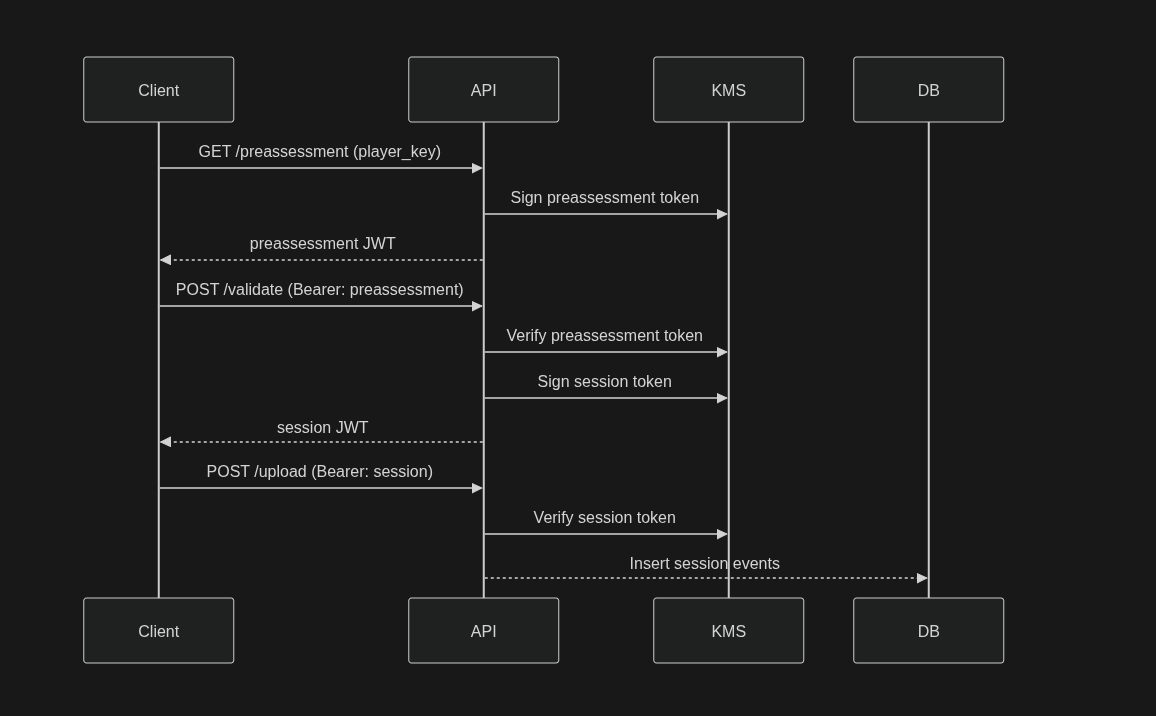
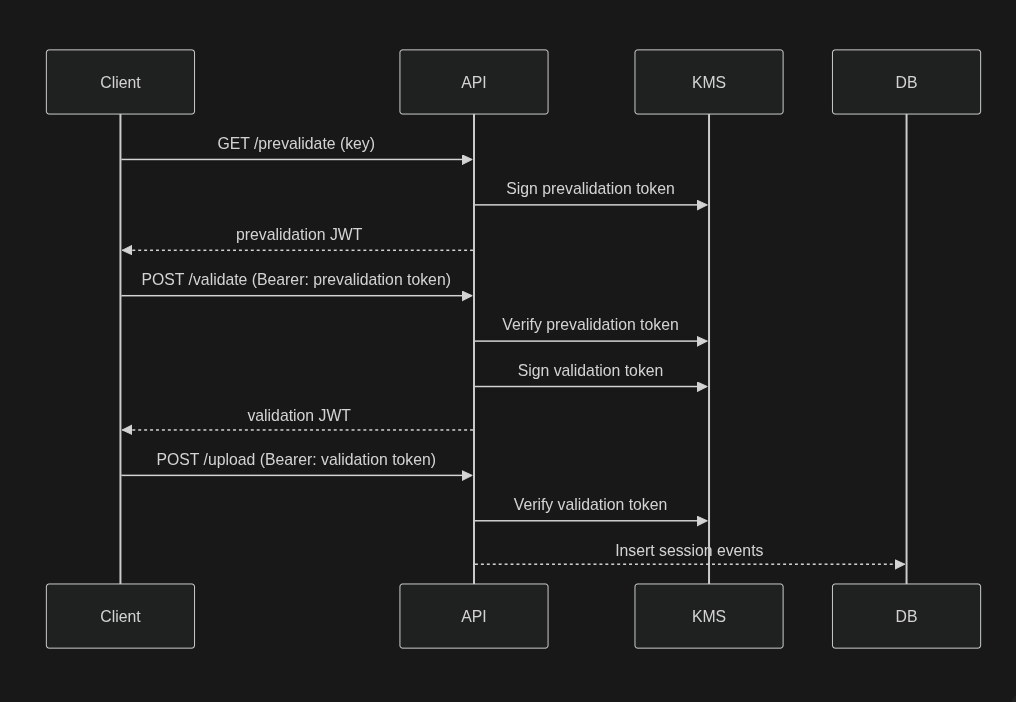
init

diff --git a/_posts/2026-04-25-session-security.md b/_posts/2026-04-25-session-security.md
@@ -103,7 +103,7 @@ Example Claims
 
 ### 2) Validate
 
-`POST /session/validate`
+`POST /validate`
 
 #### Input
 - Bearer token: **prevalidation JWT**
@@ -128,7 +128,7 @@ Example Claims
 
 ### 3) Upload
 
-`POST /v2/upload_session`
+`POST /upload_session`
 
 #### Input
 - Bearer token: **validation JWT**
